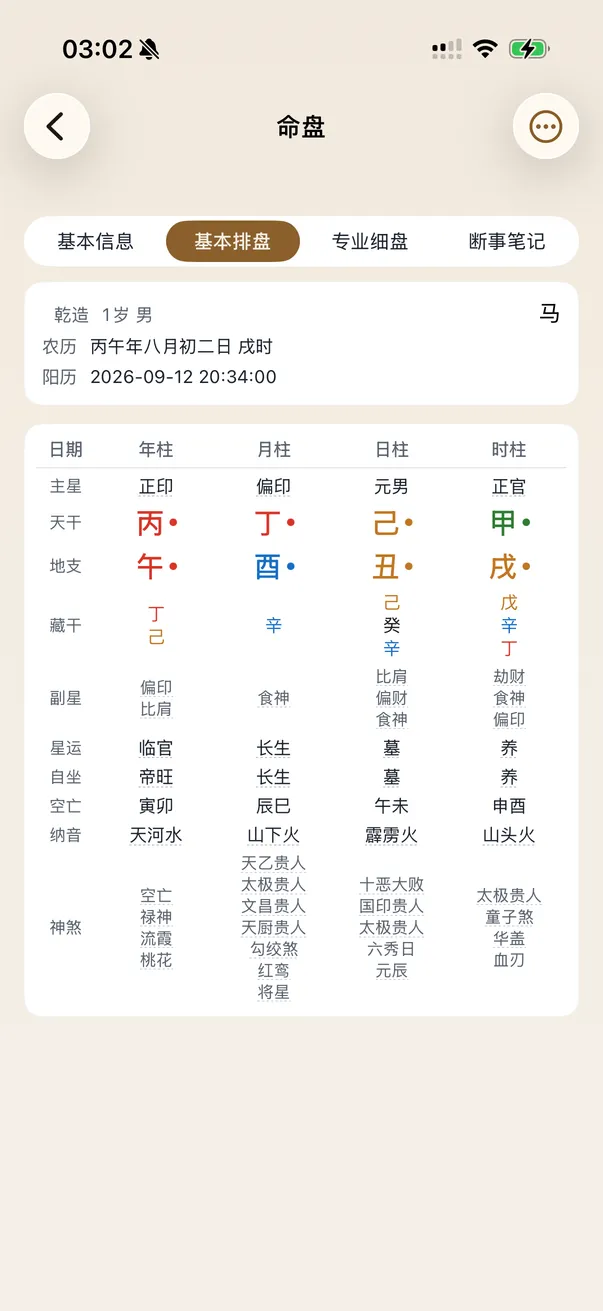
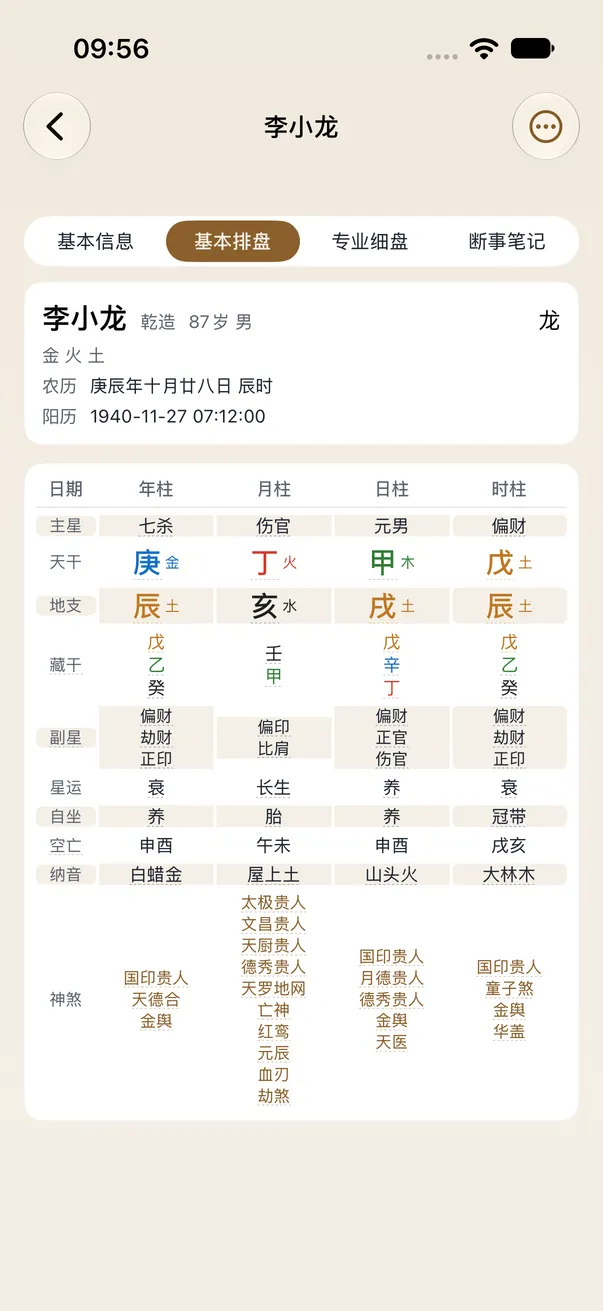
feat(截图): 三张站图换成 1.6.0 署名版，起卦结果补齐深色与两档宽度
- 三张都取自 iOS 仓 DeviceScreenshotPass 在 iPhone 17 Pro 上截的 sim-13 浅深两趟
- 八字那张改裁 2260，落在四柱卡与原局卡的空当
- app-shot 表三张口径一致，001 计划的截图一节写成现状

diff --git a/components/app-shot.tsx b/components/app-shot.tsx
@@ -9,12 +9,11 @@ import Device from "@/components/react-bits/device";
  * 每张的固有尺寸都是 iPhone 17 Pro 整屏 1206 × 2622，写死宽高把版面撑住，图到位
  * 时不跳。取图口径与裁切规则在 scripts/build-shots.mjs。
  *
- * `widths` 是这张图实际出了哪几档宽度，`dark` 是有没有深色版。占位期两张真截图
- * 齐全，起卦结果那张还是旧的匿名图，只有一档宽度、没有深色版，所以这两项要按张
- * 记而不是一刀切；换成署名图之后把它们补齐即可，调用方一个字都不用改。
+ * `widths` 是这张图实际出了哪几档宽度，`dark` 是有没有深色版。按张记而不是一刀切，
+ * 哪天多一张只出一档、没有深色版的图，调用方一个字都不用改。
  */
 const SHOTS = {
-  "cast-result": { widths: [603], dark: false },
+  "cast-result": { widths: [603, 1206], dark: true },
   "ziwei-sanhe": { widths: [603, 1206], dark: true },
   "bazi-pillars": { widths: [603, 1206], dark: true },
 } as const satisfies Record<

diff --git a/specs/001-site-v3-concise/plan.md b/specs/001-site-v3-concise/plan.md
@@ -32,9 +32,9 @@
 
 ## 5. 截图
 
-- iOS 仓截图枪加名人种子并重切三张（起卦结果、紫微三合盘、八字四柱，浅深各一），产物落 `hachimi-ios/build/device-walk/site-v3/`。这一步归 iOS 仓的 [059](../../../hachimi-ios/specs/059-library-default-group-and-named-seed/spec.md)。
-- 官网仓 `scripts/build-shots.mjs` 从那个目录取三张，其余四十余张从 `public/shots` 删掉。
-- 成图前用现有匿名截图占位把页面搭出来；推 main 之前必须换成署名图，否则不推。
+- iOS 仓截图枪加名人种子并重切三张（起卦结果、紫微三合盘、八字四柱，浅深各一），产物落 `hachimi-ios/build/device-walk/sim-13-light/` 与 `sim-13-dark/`。这一步归 iOS 仓的 [059](../../../hachimi-ios/specs/059-library-default-group-and-named-seed/spec.md)。
+- 官网仓 `scripts/build-shots.mjs` 从那两个目录取三张，其余四十余张从 `public/shots` 删掉。
+- 三张都是署名图之后才推 main。
 
 ## 6. 验证
 
@@ -104,8 +104,7 @@ a hexagram.` 是 7 词，9 字乘 0.6 向上取整是 6 词。北极星原文不
    对它只报数不设门。另有四条正文在事实稿里写了 `enLimit` 覆盖并写明理由
    （`chart.ziwei` 16 词、`chart.bazi` 15 词、`academy.text` 17 词、`principles.text`
    9 词）。两条处置 owner 2026-09-14 已认，规矩落进了 spec 验收 3。
-2. **验收 4 的署名图还没到。** 第四节两张与首屏一张目前都是现有匿名图占位，首屏那张
-   是旧的 720 宽起卦结果图，只有一档宽度、没有深色版，源移到了 `assets/shots/`
-   不随构建出门。署名“李小龙”的三张由 iOS 仓 spec 059 另产，到位后改
-   `scripts/build-shots.mjs` 的 source 并把 `components/app-shot.tsx` 的 `widths`
-   与 `dark` 补齐即可，调用点不动。**换图前不推、不部署。**
+2. **验收 4 的署名图 2026-09-15 到位。** 首屏一张与第四节两张都换成了 iOS 仓 spec 059
+   用署名种子“李小龙”在 iPhone 17 Pro 模拟器上截的图，浅深各一份、两档宽度；
+   对应关系记在 `scripts/build-shots.mjs`，`components/app-shot.tsx` 的 `widths`
+   与 `dark` 三张一致，调用点没动。
